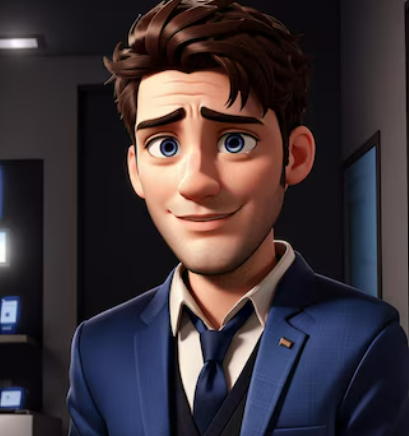
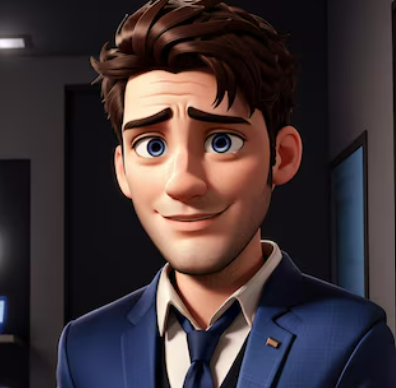
Added Jo in the team and adjusted the alignment in team data.

diff --git a/src/data/team-data.js b/src/data/team-data.js
@@ -10,7 +10,16 @@ const team_data = [
   },
   {
     id:2,
-    img:'/assets/img/team/11.jpg',
+    img:'/assets/img/team/16.jpg',
+    name:'Jo',
+    designation:'Net Zero Analyst',
+    social_links: [
+      { link: 'https://www.linkedin.com/in/josouthernwood/', icon: 'fab fa-linkedin', name: 'LinkedIn' },
+    ],
+  },
+  {
+    id:3,
+    img:'/assets/img/team/21.jpg',
     name:'Dawood',
     designation:'Director of Engineering',
     social_links: [
@@ -18,7 +27,7 @@ const team_data = [
     ],
   },
   {
-    id:3,
+    id:4,
     img:'/assets/img/team/10.jpg',
     name:'Nitesh',
     designation:'Technical Architect',
@@ -27,16 +36,16 @@ const team_data = [
     ],
   },
   {
-    id:4,
+    id:5,
     img:'/assets/img/team/13.jpg',
     name:'Rashid Ali',
-    designation:'Principal Engineer',
+    designation:'UI Architect',
     social_links: [
       { link: 'https://www.linkedin.com/in/rashidtruba/', icon: 'fab fa-linkedin', name: 'LinkedIn' },
     ],
   },
   {
-    id:5,
+    id:6,
     img:'/assets/img/team/14.png',
     name:'Sai Teja',
     designation:'Scrum Lead',
@@ -45,7 +54,7 @@ const team_data = [
     ],
   },
   {
-    id:6,
+    id:7,
     img:'/assets/img/team/15.jpg',
     name:'Sai Vamsi',
     designation:'DevOps Tech Lead',
@@ -54,7 +63,7 @@ const team_data = [
     ],
   },
   {
-    id:10,
+    id:8,
     img:'/assets/img/team/17.jpg',
     name:'Arun Kumar',
     designation:'QA Lead',
@@ -63,26 +72,17 @@ const team_data = [
     ],
   },
   {
-    id:7,
+    id:9,
     img:'/assets/img/team/18.jpg',
     name:'Fatima zahara',
-    designation:'QA / NetZero Analyst',
+    designation:'QA Engineer',
     social_links: [
       { link: 'https://www.linkedin.com/in/fatima-zahara-mohammed-8284a524b/', icon: 'fab fa-linkedin', name: 'LinkedIn' },
     ],
   },
   {
-    id:8,
-    img:'/assets/img/team/16.jpg',
-    name:'Vijaya Kumari',
-    designation:'QA Engineer',
-    social_links: [
-      { link: 'https://www.linkedin.com/in/vijaya-kumari-74796b53/', icon: 'fab fa-linkedin', name: 'LinkedIn' },
-    ],
-  },
-  {
-    id:9,
-    img:'/assets/img/team/20.jpg',
+    id:10,
+    img:'/assets/img/team/19.jpg',
     name:'Farhath Ayesha',
     designation:'UI/UX Frontend Developer',
     social_links: [

diff --git a/public/assets/scss/layout/_team.scss b/public/assets/scss/layout/_team.scss
@@ -26,6 +26,7 @@
         }
     }
     &__item {
+        min-height: 340px;
         padding: 8px;
         @include box-shadow(0 3px 8px -1px rgba(0, 0, 0, 0.08));
         @include border-radius(32px);
@@ -52,6 +53,8 @@
         }
         &-thumb {
             & img {
+                height: 198px;
+                width: 200px;
                 @include border-radius(24px);
                 @media #{$xs} {
                     @include border-radius(12px);
@@ -59,7 +62,7 @@
             }
         }
         &-content {
-            padding: 24px;
+            padding: 20px;
             @media #{$lg} {
                 padding: 24px 15px;
             }
@@ -73,7 +76,7 @@
                 font-size: 18px;
                 line-height: 1;
                 text-transform: capitalize;
-                margin: 0 0 15px;
+                margin: 0 0 8px;
                 @media #{$lg} {
                     font-size: 16px;
                     margin: 0 0 10px;
@@ -103,7 +106,7 @@
         align-items: center;
         justify-content: center;
         gap: 18px;
-        margin: 30px 0 0;
+        margin: 15px 0 0;
         @media #{$lg} {
             margin: 20px 0 0;
         }

diff --git a/static/assets/scss/layout/_team.scss b/static/assets/scss/layout/_team.scss
@@ -26,6 +26,7 @@
         }
     }
     &__item {
+        min-height: 340px;
         padding: 8px;
         @include box-shadow(0 3px 8px -1px rgba(0, 0, 0, 0.08));
         @include border-radius(32px);
@@ -52,6 +53,8 @@
         }
         &-thumb {
             & img {
+                height: 198px;
+                width: 200px;
                 @include border-radius(24px);
                 @media #{$xs} {
                     @include border-radius(12px);
@@ -59,7 +62,7 @@
             }
         }
         &-content {
-            padding: 24px;
+            padding: 20px;
             @media #{$lg} {
                 padding: 24px 15px;
             }
@@ -73,7 +76,7 @@
                 font-size: 18px;
                 line-height: 1;
                 text-transform: capitalize;
-                margin: 0 0 15px;
+                margin: 0 0 8px;
                 @media #{$lg} {
                     font-size: 16px;
                     margin: 0 0 10px;
@@ -103,7 +106,7 @@
         align-items: center;
         justify-content: center;
         gap: 18px;
-        margin: 30px 0 0;
+        margin: 15px 0 0;
         @media #{$lg} {
             margin: 20px 0 0;
         }

diff --git a/public/assets/scss/layout/_roadmap.scss b/public/assets/scss/layout/_roadmap.scss
@@ -126,7 +126,6 @@
     &__active {
         padding: 16px;
         margin: -16px;
-        overflow: visible;
     }
     
     &__hover::before {
@@ -138,7 +137,7 @@
         height: 0;
         background-color: #e5ebd5;
         transition: height 0.3s ease;
-        border-radius: 32px;
+        border-radius: 20px;
     }
     
     &__hover:hover::before {
@@ -148,7 +147,7 @@
     &__card {
         min-height: 650px;
         position: relative;
-        @include border-radius(32px);
+        @include border-radius(20px);
         padding: 32px;
         @include box-shadow(0 3px 8px -1px rgba(0, 0, 0, 0.08));
         @media #{$xs} {

diff --git a/static/assets/scss/layout/_roadmap.scss b/static/assets/scss/layout/_roadmap.scss
@@ -126,7 +126,6 @@
     &__active {
         padding: 16px;
         margin: -16px;
-        overflow: visible;
     }
     
     &__hover::before {
@@ -138,7 +137,7 @@
         height: 0;
         background-color: #e5ebd5;
         transition: height 0.3s ease;
-        border-radius: 32px;
+        border-radius: 20px;
     }
     
     &__hover:hover::before {
@@ -148,7 +147,7 @@
     &__card {
         min-height: 650px;
         position: relative;
-        @include border-radius(32px);
+        @include border-radius(20px);
         padding: 32px;
         @include box-shadow(0 3px 8px -1px rgba(0, 0, 0, 0.08));
         @media #{$xs} {
